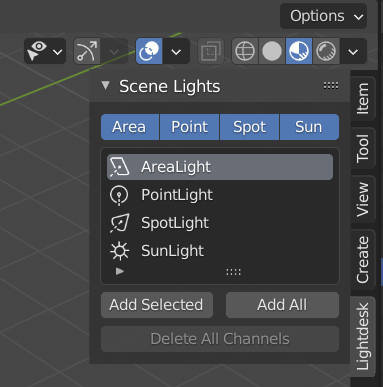
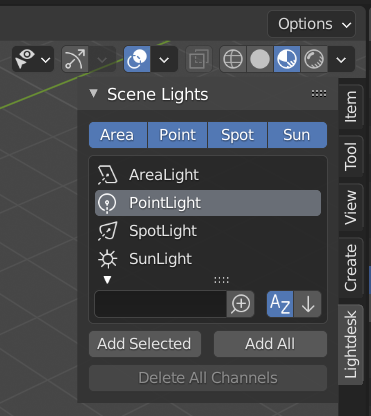
Updated readme
- edited wording
- added screenshot

diff --git a/README.md b/README.md
@@ -3,20 +3,22 @@
 An add-on for Blender 2.8+
 
 Lightdesk provides a lighting control panel in the sidebar of the 3D view.
-Add lights from the current scene to lighting channels on the 'desk'. Control the visibility, power, and color of multiple lights from this desk. Tweak your scene lighting without having to hunt/click individual lights in the 3D/Outliner views and selecting their light properties tab.
+Add lights from the current scene to lighting channels on the desk. Control the visibility, power, and color of multiple lights from this one location. Tweak your scene lighting without having to hunt/click individual lights in the 3D/Outliner views and selecting their light properties tab.
 
 Select the Lightdesk tab in the 3D view sidebar ('N') to display the Scene Lights panel.
 
 ![Light selection](lights.png)
 
-This panel will list all the light objects in the current scene. The buttons above may be used to filter the list by light types.
+This core panel lists all the light objects in the current scene. The buttons above may be used to filter the list by various light types, helpful if you have a large number of lights in the scene. Standard search and filter by name options are available from the drop-down at the foot of the list.
 
 Select a light from the list and click Add Selected to create a new lighting channel and assign the selected light to it.
-Click Add All to quickly create channels for all the lights in the current scene. Channel panels can be drag=dropped to reorder and collapsed when additional screen space is required.
+Click Add All to quickly create channels for all the lights in the current scene. Channel panels can be drag-dropped to reorder and collapsed when additional screen space is required.
 
-![Light selection](channels)
+![Light selection](channels.png)
 
-Channel operators are, from left to right, are:
+The channel header contains the name of the related light object, which can be renamed from here, and a Delete Channel button. Note that clicking the Delete Channel button will not delete the associated light object, but instead only remove the channel from Lightdesk.
+
+Operators within each channel panel are, from left to right:
 
 1. Show/hide the light in the viewport
 
@@ -26,7 +28,5 @@ Channel operators are, from left to right, are:
 
 4. Light color
 
-The channel header contains the name of the light object, which can be renamed if desired, and a Delete Channel button.
-Note that clicking the Delete Channel button will not delete the associated light object, only remove the channel from Lightdesk.
 
 Lightdesk channels and settings are configured per scene and are saved with the .blend file, so your channel setup will be recreated next time you load your project.
